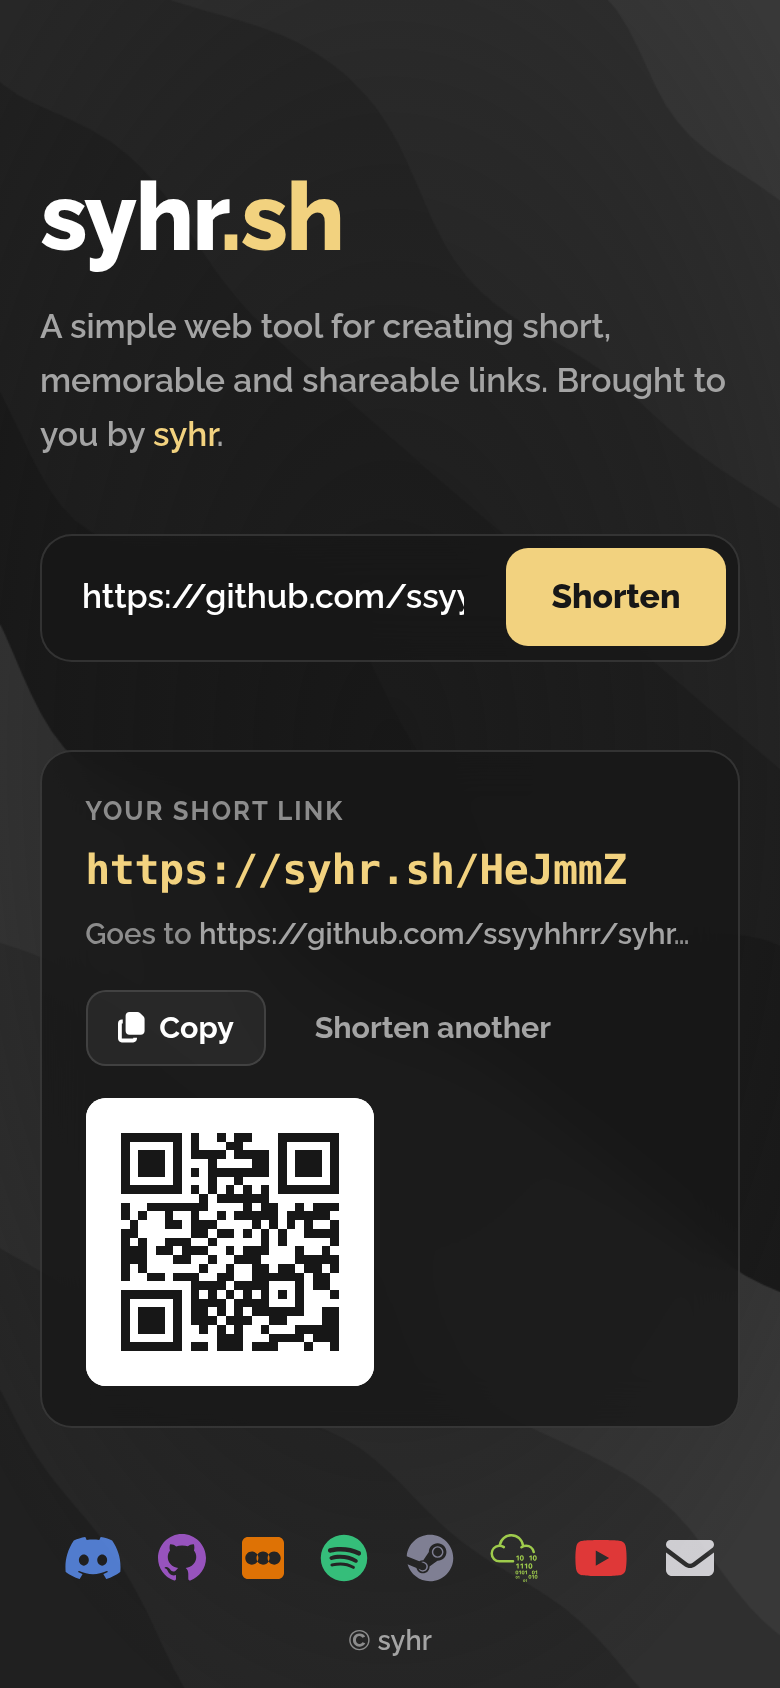
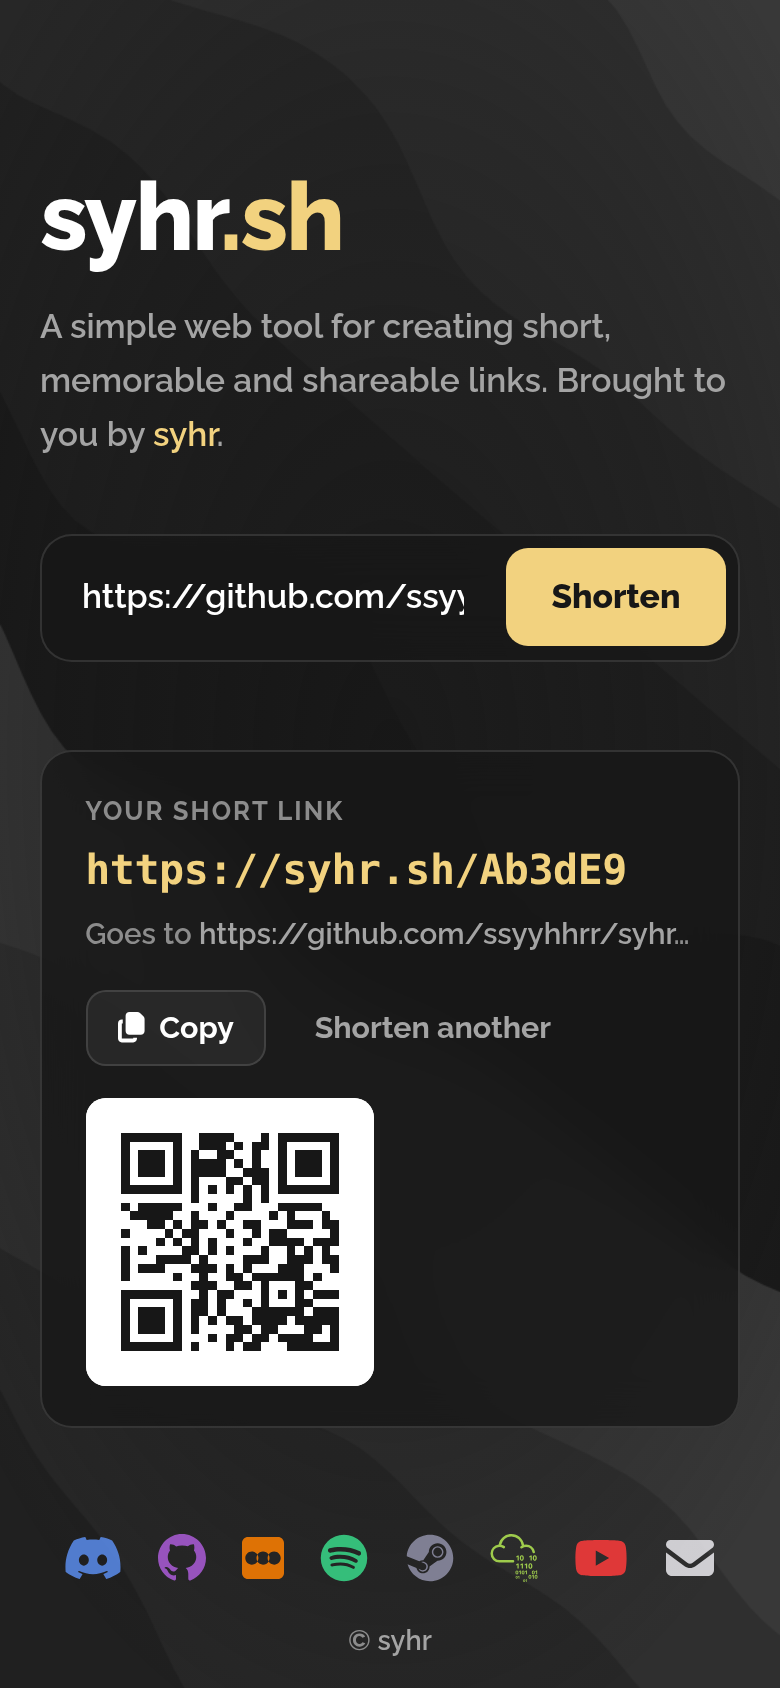
Make the README screenshots reproducible
The images changed on every run because each got a new random slug.
The script now stores the example link under the fixed slug Ab3dE9 with
the admin command first, and the page's shorten returns it through dedup.

Verified: typecheck, lint and format:check pass; two consecutive runs
produce byte-identical PNGs (md5 match).

Changed region(s): [[0.1538, 0.6469, 0.4308, 0.8009], [0.6154, 0.4929, 0.8, 0.5237]]

diff --git a/scripts/screenshot.ts b/scripts/screenshot.ts
@@ -6,7 +6,7 @@
  * Reduced motion is emulated so the waves hold one still frame and the images only change when
  * the page does. Run with: npm run screenshots
  */
-import { spawn } from "node:child_process";
+import { execFileSync, spawn } from "node:child_process";
 import { mkdtempSync, rmSync } from "node:fs";
 import { tmpdir } from "node:os";
 import path from "node:path";
@@ -20,16 +20,21 @@ const base = `http://127.0.0.1:${port}`;
 
 await buildAssets();
 const dataDir = mkdtempSync(path.join(tmpdir(), "syhr-shots-"));
-const server = spawn(process.execPath, ["src/server/main.ts"], {
-  cwd: root,
-  stdio: "ignore",
-  env: {
-    ...process.env,
-    PORT: String(port),
-    HOST: "127.0.0.1",
-    DATABASE_PATH: path.join(dataDir, "db"),
-  },
-});
+const env = {
+  ...process.env,
+  PORT: String(port),
+  HOST: "127.0.0.1",
+  DATABASE_PATH: path.join(dataDir, "db"),
+};
+// Store the example link under a fixed slug first. Shortening it in the page then returns that
+// link (dedup), so the images don't change with every random slug.
+const exampleUrl = "https://github.com/ssyyhhrr/syhr.sh";
+execFileSync(
+  process.execPath,
+  ["src/cli/main.ts", "links", "add", exampleUrl, "--slug", "Ab3dE9"],
+  { cwd: root, env },
+);
+const server = spawn(process.execPath, ["src/server/main.ts"], { cwd: root, stdio: "ignore", env });
 
 try {
   for (let i = 0; i < 100; i++) {
@@ -54,9 +59,7 @@ try {
     const context = await browser.newContext({ ...options, reducedMotion: "reduce" });
     const page = await context.newPage();
     await page.goto(base);
-    await page
-      .getByRole("textbox", { name: "Long link" })
-      .fill("https://github.com/ssyyhhrr/syhr.sh");
+    await page.getByRole("textbox", { name: "Long link" }).fill(exampleUrl);
     await page.getByRole("button", { name: "Shorten", exact: true }).click();
     await page.locator(".result .short-link").waitFor();
     // Park the focus and pointer so no hover or focus ring shows in the picture.
